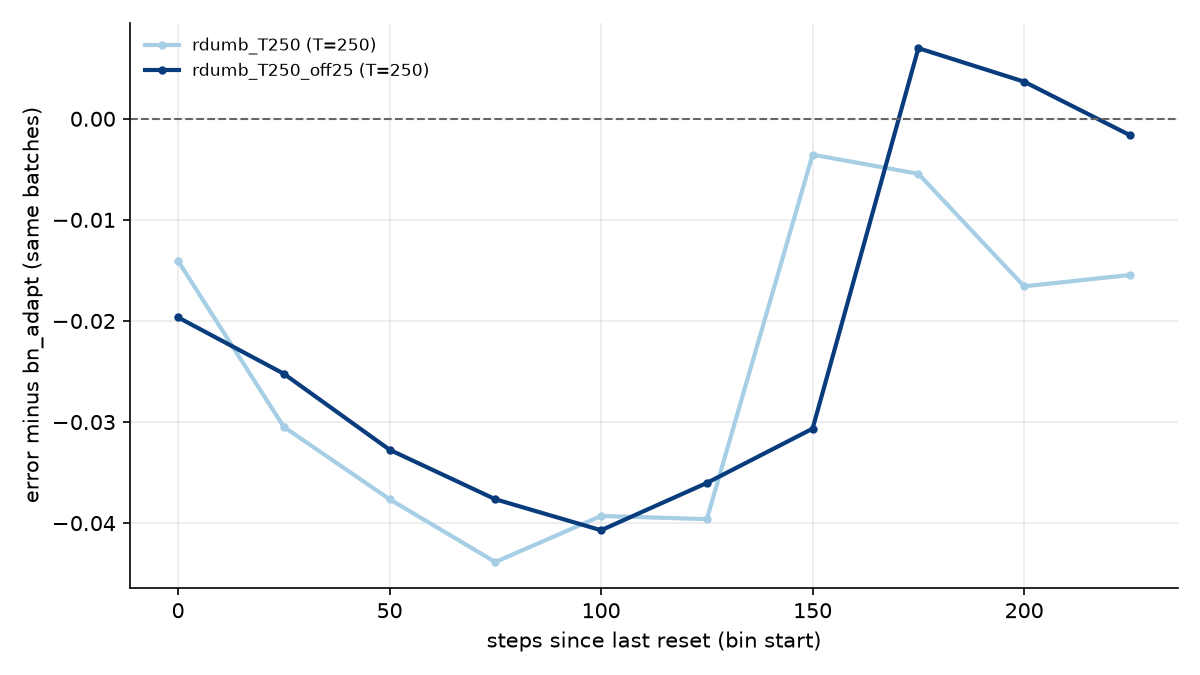
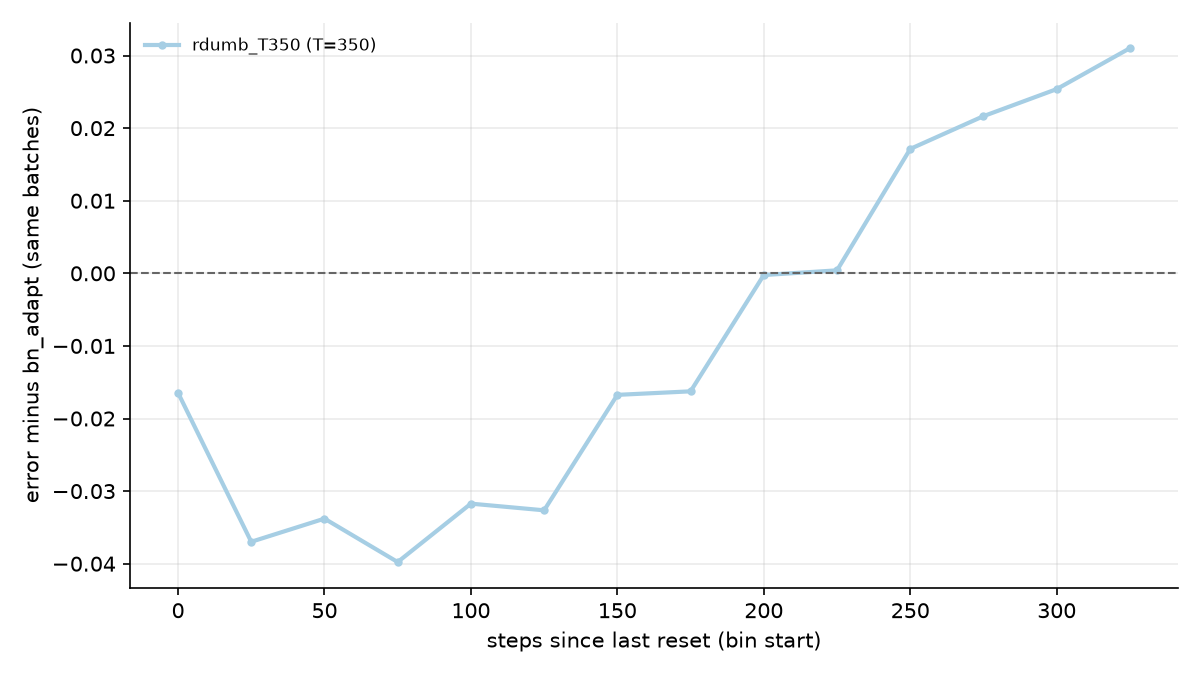
Phase 5b: factorial and T=100/150 results

diff --git a/scripts/spotcheck_wb_fixed_points.py b/scripts/spotcheck_wb_fixed_points.py
@@ -1,0 +1,128 @@
+"""Phase 1 follow-up (README TBD): are the INTERMEDIATE end states of the W+b sweep true fixed points?
+
+For each (delta, seed) of the sep = toy.sep, adapt = "Wb" sweep (same mixture, same grid, same budget as run_theory.py):
+  1. run the sweep GD to its budget -> state S (W, b);
+  2. gradient norm of the entropy loss at S (over W and b);
+  3. CONTINUE from S for `continue_factor` x the budget: change of H(p_bar), fraction of predictions that change, growth of ||W||
+     and raw parameter drift. With W adapted the weights can keep growing slowly (logit scale) while the gradient is ~0 and the
+     predictions do not change, so raw parameter drift alone does NOT mean 'not a fixed point': we report it but do not use it;
+  4. PERTURB S by Gaussian noise of norm `eps`, run the same continuation, and compare the end point with the UNPERTURBED
+     continuation's end point (distance < eps => perturbation shrank; > eps => it grew).
+A state is called "stationary" if grad norm < grad_loose, |dH_bar| < dh_tol and the prediction change < pred_tol after continuation.
+Thresholds are our choice (printed in the summary); "intermediate" := collapse_tau*log K <= H_bar(S) <= 0.9*log K, also our choice.
+A growing perturbation shows instability; a shrinking one does NOT prove stability (3 random directions per state).
+TOY MODEL ONLY. Usage:
+    python scripts/spotcheck_wb_fixed_points.py --config configs/toy_basin.yaml experiment.name=toy_wb_spotcheck
+Smoke test: ... toy.n_per_class=50 sweep.n_delta=5 experiment.seeds=[0]
+"""
+from __future__ import annotations
+
+import argparse
+import sys
+from dataclasses import replace
+from pathlib import Path
+
+sys.path.insert(0, str(Path(__file__).resolve().parents[1]))
+
+import numpy as np
+import pandas as pd
+
+from src.theory.toy_model import (
+    GDConfig, MixtureSpec, bayes_init, entropy_loss_and_grad, entropy_stats, forward_logprobs, make_mixture, run_gd,
+)
+from src.utils.config import load_config, make_run_dir
+from src.utils.run_logger import RunLogger, get_text_logger
+from src.utils.seeding import get_rng, seed_everything
+
+CONTINUE_FACTOR = 4      # continuation budget = 4 x the sweep budget
+EPS = 1e-2               # norm of the random perturbation (parameters W and b together)
+N_PERT = 3
+GRAD_LOOSE = 1e-4
+DH_TOL = 1e-3
+PRED_TOL = 0.005       # fraction of samples whose argmax changes during the continuation
+
+
+def gnorm(X: np.ndarray, W: np.ndarray, b: np.ndarray) -> float:
+    _, gW, gb = entropy_loss_and_grad(X, W, b)
+    return float(np.sqrt((gW**2).sum() + (gb**2).sum()))
+
+
+def hbar(X: np.ndarray, y: np.ndarray, W: np.ndarray, b: np.ndarray) -> float:
+    return entropy_stats(forward_logprobs(X, W, b), y)["H_bar"]
+
+
+def dist(W1: np.ndarray, b1: np.ndarray, W2: np.ndarray, b2: np.ndarray) -> float:
+    return float(np.sqrt(((W1 - W2) ** 2).sum() + ((b1 - b2) ** 2).sum()))
+
+
+def main() -> None:
+    ap = argparse.ArgumentParser()
+    ap.add_argument("--config", default="configs/toy_basin.yaml")
+    ap.add_argument("overrides", nargs="*")
+    args = ap.parse_args()
+    cfg = load_config(args.config, args.overrides)
+    run_dir = make_run_dir(cfg)
+    log = get_text_logger("spotcheck", run_dir / "run.log")
+    t, sw, seeds = cfg["toy"], cfg["sweep"], cfg["experiment"]["seeds"]
+    spec = MixtureSpec(K=t["K"], d=t["d"], n_per_class=t["n_per_class"], sep=t["sep"], sigma=t["sigma"])
+    margin = spec.sep**2 / spec.sigma**2
+    deltas = np.linspace(0.0, sw["delta_rel_max"] * margin, sw["n_delta"])   # same grid as run_theory.py
+    gd = GDConfig(eta=t["eta"], steps=t["steps"], adapt="Wb", record_every=10**9, grad_tol=t["grad_tol"])
+    gd_cont = replace(gd, steps=CONTINUE_FACTOR * t["steps"])
+    logK, tau = float(np.log(t["K"])), t["collapse_tau"]
+    rows: list[dict] = []
+    for seed in seeds:
+        seed_everything(seed)
+        mix = make_mixture(spec, get_rng(seed))
+        rng = np.random.default_rng(1000 + seed)
+        for delta in deltas:
+            W0, b0 = bayes_init(mix.means, spec.sigma)
+            b0 = b0.copy(); b0[0] += float(delta)
+            S = run_gd(mix.X, mix.y, W0, b0, gd)
+            h0 = hbar(mix.X, mix.y, S.W, S.b)
+            g0 = gnorm(mix.X, S.W, S.b)
+            C = run_gd(mix.X, mix.y, S.W, S.b, gd_cont)
+            h1 = hbar(mix.X, mix.y, C.W, C.b)
+            ret = []
+            pred0 = forward_logprobs(mix.X, S.W, S.b).argmax(1)
+            pred_change = float((forward_logprobs(mix.X, C.W, C.b).argmax(1) != pred0).mean())
+            for _ in range(N_PERT):
+                nW, nb = rng.normal(size=S.W.shape), rng.normal(size=S.b.shape)
+                s = EPS / np.sqrt((nW**2).sum() + (nb**2).sum())
+                P = run_gd(mix.X, mix.y, S.W + s * nW, S.b + s * nb, gd_cont)
+                ret.append(dist(P.W, P.b, C.W, C.b))
+            rows.append({"seed": seed, "delta": float(delta), "delta_rel": float(delta / margin), "H_bar_S": h0, "grad_norm_S": g0,
+                         "dH_bar_cont": h1 - h0, "pred_change_cont": pred_change, "W_norm_S": float(np.linalg.norm(S.W)),
+                         "W_norm_cont": float(np.linalg.norm(C.W)), "param_drift_cont": dist(C.W, C.b, S.W, S.b),
+                         "dist_perturbed_vs_unperturbed_max": float(max(ret)), "eps": EPS,
+                         "intermediate": bool(tau * logK <= h0 <= 0.9 * logK),
+                         "collapsed": bool(h0 < tau * logK),
+                         "stationary": bool(g0 < GRAD_LOOSE and abs(h1 - h0) < DH_TOL and pred_change < PRED_TOL)})
+        log.info("seed %s done", seed)
+    df = pd.DataFrame(rows)
+    df.to_csv(run_dir / "wb_spotcheck.csv", index=False)
+    inter = df[df.intermediate]
+    summary = {
+        "n_states": int(len(df)), "n_intermediate": int(len(inter)),
+        "n_collapsed": int(df.collapsed.sum()),
+        "intermediate_stationary": int(inter.stationary.sum()),
+        "intermediate_max_grad_norm": float(inter.grad_norm_S.max()) if len(inter) else None,
+        "intermediate_max_abs_dH_bar": float(inter.dH_bar_cont.abs().max()) if len(inter) else None,
+        "intermediate_max_param_drift": float(inter.param_drift_cont.max()) if len(inter) else None,
+        "intermediate_max_dist_perturbed_vs_unperturbed": float(inter.dist_perturbed_vs_unperturbed_max.max()) if len(inter) else None,
+        "eps": EPS, "n_perturbations": N_PERT, "continue_factor": CONTINUE_FACTOR, "grad_loose": GRAD_LOOSE, "dh_tol": DH_TOL, "pred_tol": PRED_TOL,
+        "intermediate_max_pred_change": float(inter.pred_change_cont.max()) if len(inter) else None,
+        "intermediate_max_W_norm_growth": float((inter.W_norm_cont / inter.W_norm_S).max()) if len(inter) else None,
+        "intermediate_definition": "tau*logK <= H_bar(S) <= 0.9*logK",
+    }
+    with RunLogger(run_dir) as rl:
+        rl.write_summary(summary)
+    pd.set_option("display.width", 200)
+    print(inter[["seed", "delta_rel", "H_bar_S", "grad_norm_S", "dH_bar_cont", "pred_change_cont", "W_norm_S", "W_norm_cont", "dist_perturbed_vs_unperturbed_max", "stationary"]]
+          .to_string(index=False, float_format=lambda v: f"{v:.3g}"))
+    print({k: v for k, v in summary.items()})
+    print(run_dir)
+
+
+if __name__ == "__main__":
+    main()

diff --git a/scripts/factorial_effects.py b/scripts/factorial_effects.py
@@ -1,0 +1,50 @@
+"""Phase 5 factorial: paired per-seed effect of the marginal term at each reset period, and their difference (interaction).
+
+effect(T) = err(lam=0, T) - err(lam=1, T) per seed (same batches), then mean over seeds; interaction = effect(1000) - effect(250).
+Uses summary.json of results/stream_tent (overall_err). Prints per-seed values; no p-value (n = 3).
+Usage: python scripts/factorial_effects.py --exp-dir results/stream_tent
+"""
+from __future__ import annotations
+
+import argparse
+import json
+from pathlib import Path
+
+import numpy as np
+
+CELLS = {1000: ("rdumb_T1000", "tent_im_lam1_T1000"), 250: ("rdumb_T250", "tent_im_lam1_T250")}
+
+
+def overall(exp: Path, method: str) -> dict[int, float]:
+    out: dict[int, float] = {}
+    for f in sorted((exp / method).glob("*_seed*/summary.json")):
+        s = json.loads(f.read_text())
+        out[int(s["seed"])] = float(s["overall_err"])
+    if not out:
+        raise SystemExit(f"no runs found for {method} in {exp}")
+    return out
+
+
+def main() -> None:
+    ap = argparse.ArgumentParser()
+    ap.add_argument("--exp-dir", default="results/stream_tent")
+    a = ap.parse_args()
+    exp = Path(a.exp_dir)
+    eff: dict[int, dict[int, float]] = {}
+    for T, (m0, m1) in CELLS.items():
+        e0, e1 = overall(exp, m0), overall(exp, m1)
+        seeds = sorted(set(e0) & set(e1))
+        eff[T] = {s: e0[s] - e1[s] for s in seeds}
+        print(f"T={T}: effect = err({m0}) - err({m1}) (positive = marginal term helps)")
+        for s in seeds:
+            print(f"  seed {s}: lam0={e0[s]:.4f} lam1={e1[s]:.4f} effect={eff[T][s]:+.4f}")
+        v = np.array(list(eff[T].values()))
+        print(f"  mean effect {v.mean():+.4f}  std(ddof=1) {v.std(ddof=1) if len(v) > 1 else float('nan'):.4f}  n={len(v)}")
+    seeds = sorted(set(eff[1000]) & set(eff[250]))
+    d = np.array([eff[1000][s] - eff[250][s] for s in seeds])
+    print("\ninteraction = effect(1000) - effect(250), per seed: " + ", ".join(f"{s}:{x:+.4f}" for s, x in zip(seeds, d)))
+    print(f"mean {d.mean():+.4f} (pre-registered P3: >= 0.05), std(ddof=1) {d.std(ddof=1) if len(d) > 1 else float('nan'):.4f}, n={len(d)}")
+
+
+if __name__ == "__main__":
+    main()

diff --git a/README.md b/README.md
@@ -68,7 +68,7 @@ Status of each statement (see THEORY.md in Phase 2 for derivations):
 - **[observed]** With W also adapted (sep=3), no seed collapsed until delta=10.8, the
   last grid point (all 3 collapsed there); at intermediate delta the final H(p_bar)
   is between 0 and log K (fig2). Whether those intermediate states are true fixed
-  points was only spot-checked informally, not logged: **TBD**.
+  points was only spot-checked informally, not logged: **TBD**; `scripts/spotcheck_wb_fixed_points.py` logs it (run: `experiment.name=toy_wb_spotcheck`), results to be added from that run.
 - **Hypothesis (untested):** for sep <= 2 the balanced point is itself unstable under
   entropy minimisation. Phase 2 (Jacobian) will test this.
 - Caveats: only 3 seeds; non-collapsed runs often hit the step budget before
